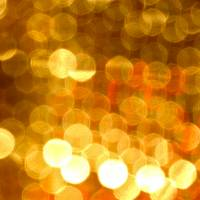
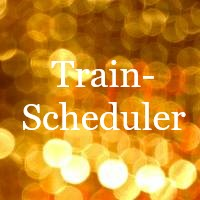
Added text and links to images

Changed region(s): [[0.09, 0.48, 0.93, 0.66], [0.24, 0.3, 0.78, 0.45]]

diff --git a/portfolio.html b/portfolio.html
@@ -23,20 +23,25 @@
 			<div class="main-content col-md-6 col-sm-12 col-xs-12">
 				<h2>Portfolio</h2>
 				<hr>
-				<div class="grouping">
-		
-					<a href="_blank" target="_blank"><img class="pictures" src="assets/images/image1.jpg" height="200px" width="200px" alt="Cool Stuff"></a>
-
-					<a href="_blank" target="_blank"><img class="pictures" src="assets/images/image2.jpg" height="200px" width="200px" alt="Cooler Stuff"></a>
-
-					<a href="_blank" target="_blank"><img class="pictures" src="assets/images/image3.jpg" height="200px" width="200px" alt="Even Cooler Stuff"></a>
-		
-					<a href="_blank" target="_blank"><img class="pictures" src="assets/images/image4.jpg" height="200px" width="200px" alt="Awesome Stuff"></a>
-
-					<a href="_blank" target="_blank"><img class="pictures" src="assets/images/image5.jpg" height="200px" width="200px" alt="Coolest Stuff"></a>
-
-					<a href="_blank" target="_blank"><img class="pictures" src="assets/images/image6.jpg" height="200px" width="200px" alt="Rad Stuff"></a>
-				</div>
+				
+					
+						<a href="https://github.com/mrengel/BabyFace-Digital-Babybook" target="_blank"><img class="pictures" src="assets/images/image1.jpg" height="200px" width="200px" alt="Cool Stuff"></a>
+									
+						<a href="https://github.com/mrengel/Text-Based-Murder-Mystery-Game" target="_blank"><img class="pictures" src="assets/images/image2.jpg" height="200px" width="200px" alt="Cooler Stuff"></a>
+					
+					
+						<a href="https://github.com/mrengel/Train-Scheduler-Simulator" target="_blank"><img class="pictures" src="assets/images/image3.jpg" height="200px" width="200px" alt="Even Cooler Stuff"></a>
+					
+					
+						<a href="https://github.com/mrengel/Psychic-Game" target="_blank"><img class="pictures" src="assets/images/image4.jpg" height="200px" width="200px" alt="Awesome Stuff"></a>
+					
+					
+						<a href="https://github.com/mrengel/TriviaGame" target="_blank"><img class="pictures" src="assets/images/image5.jpg" height="200px" width="200px" alt="Coolest Stuff"></a>
+					
+					
+						<a href="https://github.com/mrengel/GifTastic" target="_blank"><img class="pictures" src="assets/images/image6.jpg" height="200px" width="200px" alt="Rad Stuff"></a>
+					
+				
 			</div>
 			<div class="col-md-1"></div>
 			<div class="col-md-3 col-sm-12 col-xs-12" id="sidebar">

diff --git a/assets/css/style.css b/assets/css/style.css
@@ -24,6 +24,11 @@ h1,h2{
 	font-family: Georgia;
 	padding: 20px 10px 10px 10px;
 }
+h4{
+	font-family: Georgia;
+	position: relative;
+	text-align: center;
+}
 header{
 	width: 100%;
 	height: 80px;
